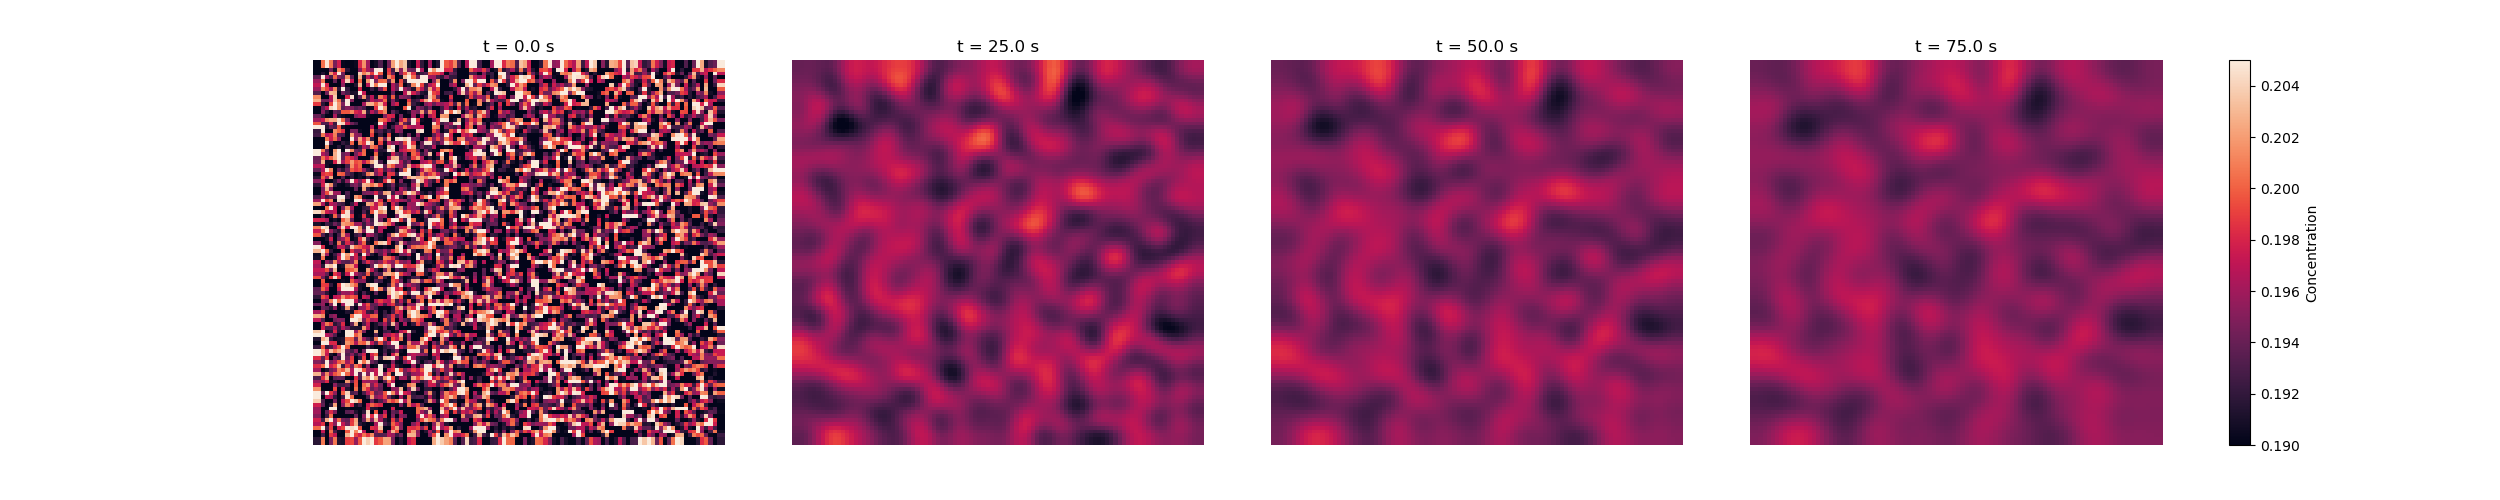
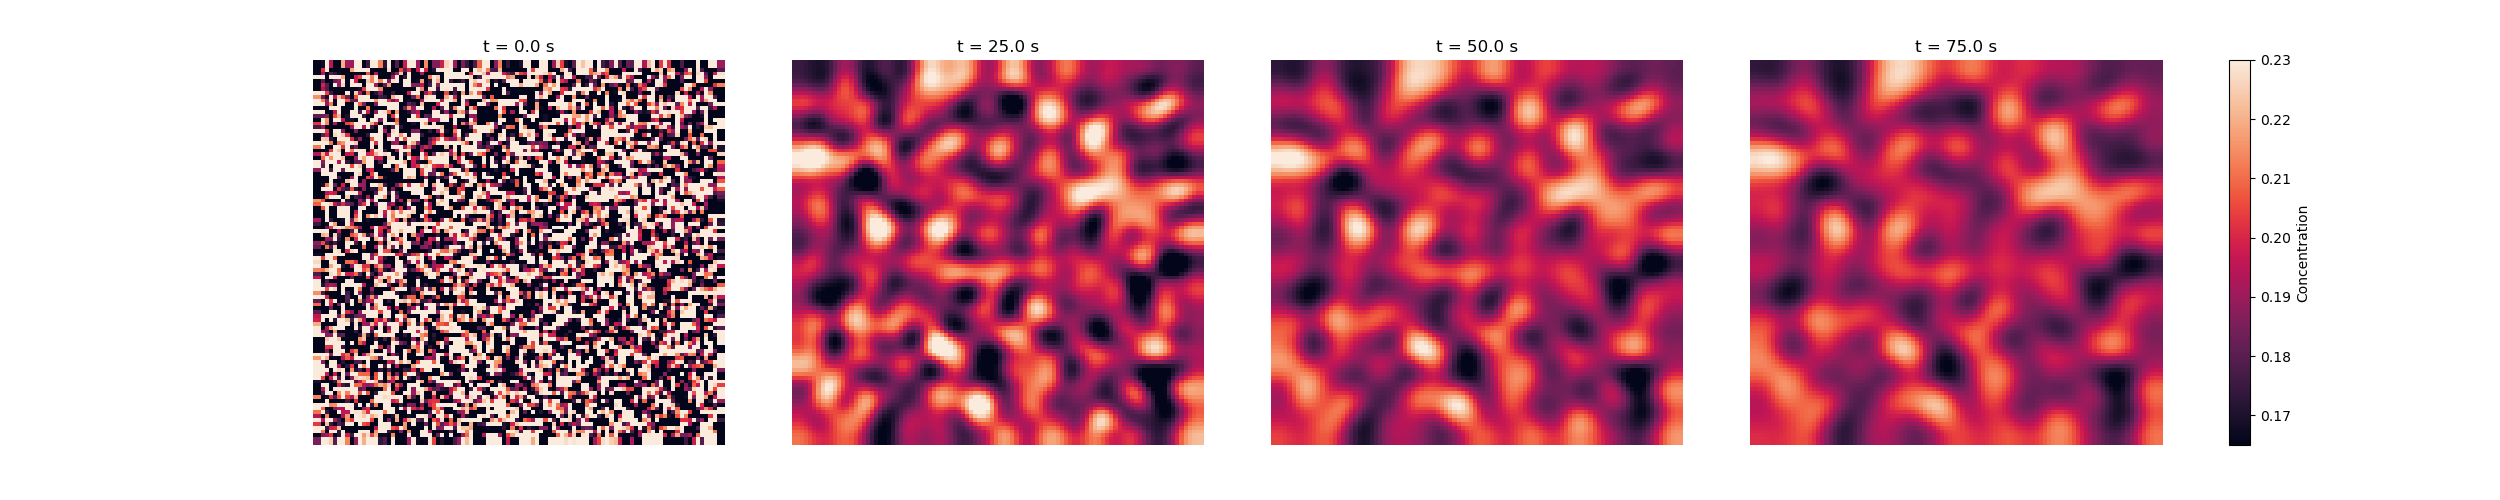
adjusting random distr of c

diff --git a/code/NiAl_2D.py b/code/NiAl_2D.py
@@ -32,7 +32,7 @@ dc_dt =  np.zeros((N,N), dtype=np.float64)
 def run_sim( f_0, K, M, dt, c1, c2):
     c_save_list = []
     t_save_list = []
-    c0 = np.random.normal(loc=0.195, scale=0.01, size=(N,N)) 
+    c0 = np.random.normal(loc=0.195, scale=0.1, size=(N,N)) 
     c_next = np.zeros((N,N), dtype=np.float64)
     for j in range(timesteps):
         dc_dt = f_0 * dbulk_dx(c0,c1, c2) - K * div_grad_2D(c0, dx)
@@ -51,8 +51,8 @@ if __name__ == '__main__':
     c_save_list, t_save_list = run_sim(f_0 = f_0, K = K, M=M, dt=dt, c1=c1, c2=c2)
 
     # Plotting
-    vmin = c1 +0.025
-    vmax = c2 -0.025
+    vmin = c1
+    vmax = c2
     fig, axs = plt.subplots(ncols=5, gridspec_kw={'width_ratios': [1, 1, 1, 1, 0.05]}, figsize=(25, 5))
     sns.heatmap(c_save_list[0], ax=axs[0], cbar=False, vmin=vmin, vmax=vmax) 
     sns.heatmap(c_save_list[1], ax=axs[1], cbar=False, vmin=vmin, vmax=vmax) 
